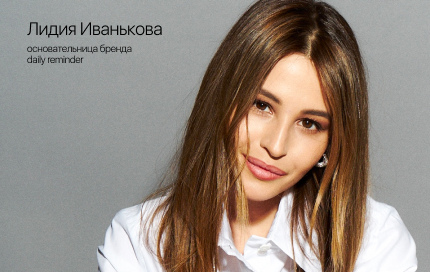
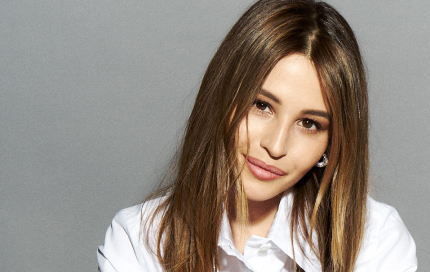
-

Changed region(s): [[0.0605, 0.0588, 0.393, 0.2353]]

diff --git a/about.html b/about.html
@@ -206,6 +206,7 @@
                                 <!-- Изображение по умолчанию -->
                                 <img class="section-img" src="img/general-person.jpg" alt="Изображение">
                             </picture>
+                            <img class="section-img-mask" src="img/general-person-mask.svg" alt="Изображение">
                         </div>
                         <div class="section-content">
                             <div class="section-title">

diff --git a/css/style.css b/css/style.css
@@ -2220,12 +2220,21 @@ button:hover {
 }
 
 .section-philosophy .section-img-wrap {
+    position: relative;
     text-align: center;
 }
 
 .section-philosophy .section-img {
     max-width: 100%;
     height: auto;
+}
+
+.section-philosophy .section-img-mask {
+    position: absolute;
+    top: 0;
+    display: block;
+    width: 100%;
+    height: 100%;
 }
 
 .section-philosophy .section-title {
